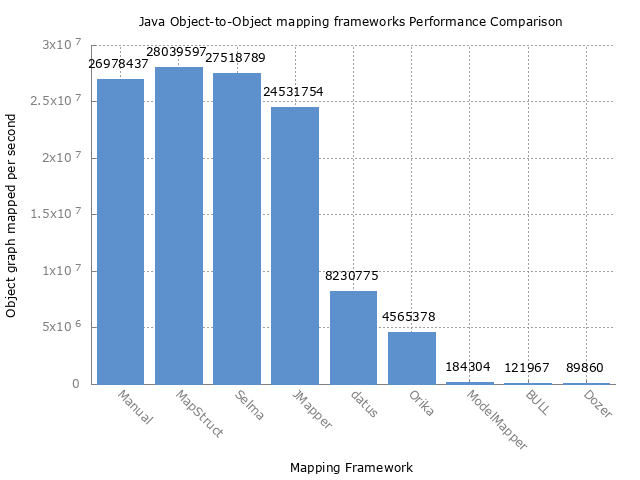
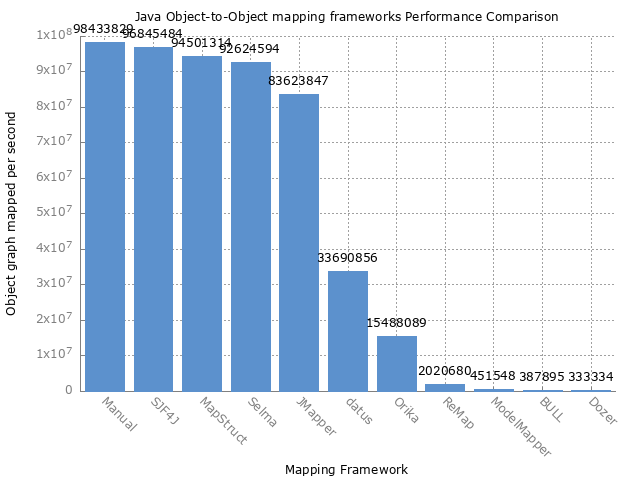
New 2026 benchmark with SJF4J and ReMap

diff --git a/readme.md b/readme.md
@@ -1,14 +1,15 @@
 # Object-to-object mapping framework microbenchmark
+
 ![CI](https://github.com/arey/java-object-mapper-benchmark/workflows/CI/badge.svg)
 
-Multi-layered applications often require to map between different object models (e.g. DTOs and entities). 
+Multi-layered applications often require to map between different object models (e.g. DTOs and entities).
 Writing such boiler plate mapping code is a tedious and error-prone task.
 A lot of object-to-object mapping Java frameworks aims to simplify this work and automate it.
 Some uses code instrospection (eg. Dozer). Other uses code generation (ex: MapStruct).
-This micro-benchmark compares performance of 9 frameworks. Results could be compared to the benchmark of a code written manually. 
+This micro-benchmark compares performance of 9 frameworks. Results could be compared to the benchmark of a code written manually.
 
 Benchmark are powered by a tool called [JMH](http://openjdk.java.net/projects/code-tools/jmh/) or also known as "Java Microbenchmarking Harness".
-JMH is developed by the OpenJDK team. 
+JMH is developed by the OpenJDK team.
 
 ## Benchmarked object to object mapper frameworks
 
@@ -25,12 +26,13 @@ JMH is developed by the OpenJDK team.
 
 ## Contributing to benchmark
 
-
-Github is for social coding platform: if you want to add another mapping framework or optimize an existing one, we encourage contributions 
+Github is for social coding platform: if you want to add another mapping framework or optimize an existing one, we
+encourage contributions
 through pull requests from [forks of this repository](http://help.github.com/forking/).
-If you want to contribute code this way, please reference a GitHub ticket as well covering the specific issue you are addressing.
-To add a new mapper, please add a unit test that extends the `AbstractMapperTest` class and declare your mapper into the `MapperBenchmark` class. 
-
+If you want to contribute code this way, please reference a GitHub ticket as well covering the specific issue you are
+addressing.
+To add a new mapper, please add a unit test that extends the `AbstractMapperTest` class and declare your mapper into the
+`MapperBenchmark` class.
 
 ## Data model
 
@@ -50,9 +52,10 @@ _Pre-requisites: Maven 3.x and a JDK 17 (or above)_
 
 ``mvn clean install``
 
-``java -jar target/benchmarks.jar``
+``java @jvm.options -jar target/benchmarks.jar``
 
-Optional: To run a single benchmark, such as MapStruct, use `java -jar target/benchmarks.jar -p type=MapStruct`
+Optional: To run a single benchmark, such as MapStruct, use
+`java @jvm.options -jar target/benchmarks.jar -p type=MapStruct`
 
 ## Interpreting the Results
 
@@ -63,26 +66,26 @@ Generally, the score represents the number of graph object mapped per second; th
 
 Tests has been performed on:
 
-* OS: macOS High Sierra
-* CPU: 3.1 GHz Intel Core i7, 2 cores, L2 Cache (per Core): 256 KB,  L3 Cache: 4 MB
-* RAM: 16 GB 1867 MHz DDR3
-* JVM: Oracle 1.8.0_74-b02 64 bits
+* OS: macOS Tahoe 26.5
+* CPU: Apple M4 Pro
+* RAM: 24 GB
+* JVM: Eclipse Temurin 21.0.5+11
 
-| Benchmark      | Mode  | Samples | Score       | Margin error (+/-) | Units |
-|----------------|-------|---------|-------------|--------------------|-------|
-| Manual         | thrpt | 200     | 26 978 437  | 615 002            | ops/s |
-| MapStruct      | thrpt | 200     | 28 039 597  | 199 255            | ops/s |
-| Selma          | thrpt | 200     | 27 518 789  | 238 602            | ops/s |
-| JMapper        | thrpt | 200     | 24 531 754  | 123 945            | ops/s |
-| Orika          | thrpt | 200     |  4 565 378  |  24 947            | ops/s |
-| ModelMapper    | thrpt | 200     |    184 304  |  12 777            | ops/s |
-| Dozer          | thrpt | 200     |     89 860  |     462            | ops/s |
-| BULL           | thrpt | 200     |    178 027  |     679            | ops/s |
-| datus          | thrpt | 200     |  8 230 775  |  59 673            | ops/s |
-
+| Benchmark   | Mode  | Samples | Score      | Score Error (99,9%) | Units |
+|-------------|-------|---------|------------|---------------------|-------|
+| Manual      | thrpt | 200     | 98 433 829 | 560 874             | ops/s |
+| SJF4J       | thrpt | 200     | 96 845 484 | 1 137 711           | ops/s |
+| MapStruct   | thrpt | 200     | 94 501 314 | 1 153 765           | ops/s |
+| Selma       | thrpt | 200     | 92 624 594 | 1 032 208           | ops/s |
+| JMapper     | thrpt | 200     | 83 623 847 | 404 936             | ops/s |
+| datus       | thrpt | 200     | 33 690 856 | 863 388             | ops/s |
+| Orika       | thrpt | 200     | 15 488 089 | 385 665             | ops/s |
+| ReMap       | thrpt | 200     | 2 020 680  | 127 259             | ops/s |
+| ModelMapper | thrpt | 200     | 451 548    | 7 450               | ops/s |
+| BULL        | thrpt | 200     | 387 895    | 6 636               | ops/s |
+| Dozer       | thrpt | 200     | 333 334    | 10 383              | ops/s |
 
 ![Framework Comparison](results.png)
-
 
 ## Documentation
 
@@ -90,7 +93,7 @@ Tests has been performed on:
 
 ## Generating plot
 
-1. Run benchmark while exporting results to csv with `java -jar target/benchmarks.jar -rff results.csv -rf csv`
+1. Run benchmark while exporting results to csv with `java @jvm.options -jar target/benchmarks.jar -rff results.csv -rf csv`
 2. Use gnuplot to generate plot with `gnuplot benchmark.plt`. This will output `results.png`.
 
 ## Credits
